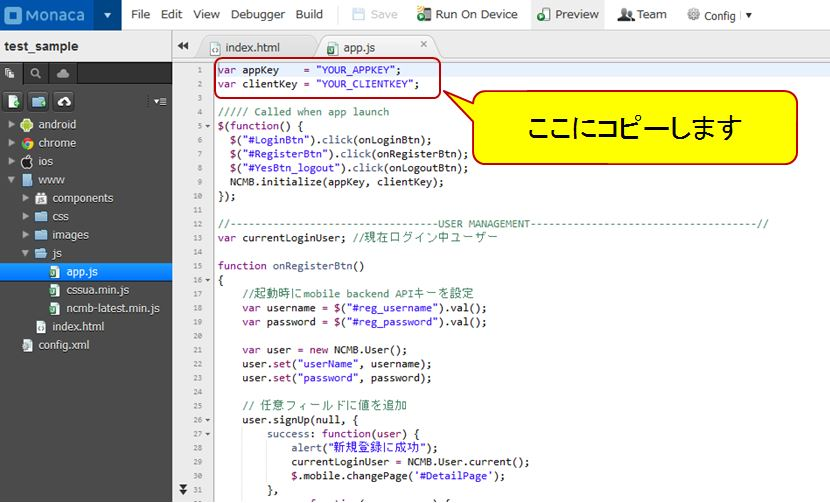
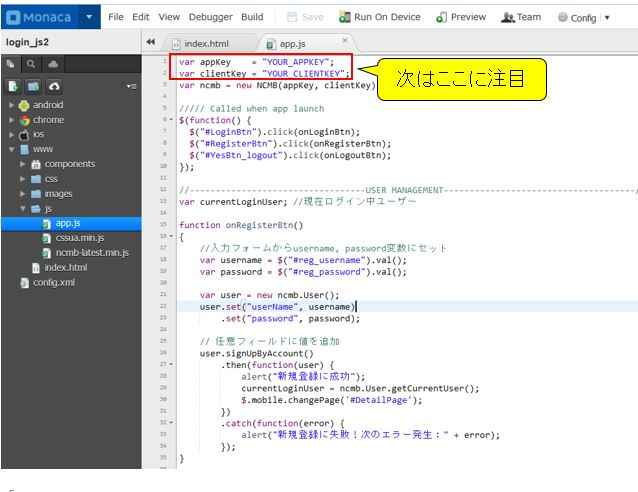
readme update

diff --git a/www/js/app.js b/www/js/app.js
@@ -14,7 +14,7 @@ var currentLoginUser; //現在ログイン中ユーザー
 
 function onRegisterBtn()
 {
-    //起動時にmobile backend APIキーを設定
+    //入力フォームからusername, password変数にセット
     var username = $("#reg_username").val();
     var password = $("#reg_password").val();
     

diff --git a/README.md b/README.md
@@ -80,18 +80,11 @@ File: www/js/app.js
 ```JavaScript
 var appKey    = "YOUR_APPKEY";
 var clientKey = "YOUR_CLIENTKEY";
-
-///// Called when app launch
-$(function() {
-  //ボタン処理実装
-  $("#LoginBtn").click(onLoginBtn);
-  $("#RegisterBtn").click(onRegisterBtn);
-  $("#YesBtn_logout").click(onLogoutBtn);  
-  NCMB.initialize(appKey, clientKey);
-});
+var ncmb = new NCMB(appKey, clientKey);
 ```
+
 上記のコードでアプリケーションキーとクライアントキーを指定し、
-NCMB.initialize(appKey, clientKey)　でmBaaSサーバと連携を行います。
+NCMB(appKey, clientKey)　でmBaaSサーバと連携を行います。
 
  - ユーザ登録
 
@@ -101,37 +94,36 @@ NCMB.Userクラスを利用して、ユーザ登録を行います。
 userに対し、set("key", "value")というメソッドを利用して、username, passwordをセットします。
 他の属性（たとえば年齢や性別など）も、同様の形でセットできます。
 
-セット後、signUp()メソッドを利用し、ユーザ登録を非同期にて行います。
-success, error それぞれの場合のコールバック処理を定義します。
-successの場合、alertを出し、currentLoginUserをセットしてから、#DetailPageに遷移させます。
+セット後、signUpByAccount()メソッドを利用し、ユーザ登録を非同期にて行います。
+メソッドチェインを行い、then(), catch() それぞれの場合の処理を定義します。
+成功の場合、alertを出し、currentLoginUserをセットしてから、#DetailPageに遷移させます。
 
 ```JavaScript
 //入力フォームからusername, password変数にセット
 var username = $("#reg_username").val();
 var password = $("#reg_password").val();
 
-var user = new NCMB.User();
-user.set("userName", username);
-user.set("password", password);
+var user = new ncmb.User();
+user.set("userName", username)
+    .set("password", password);
 
-// 任意フィールドに値を追加
-user.signUp(null, {
-    success: function(user) {
+// 任意フィールドに値を追加 
+user.signUpByAccount()
+    .then(function(user) {
         alert("新規登録に成功");
-        currentLoginUser = NCMB.User.current();
+        currentLoginUser = ncmb.User.getCurrentUser();
         $.mobile.changePage('#DetailPage');
-    },
-    error: function(user, error) {
-        alert("新規登録に失敗！次のエラー発生： " + error.message);
-    }
-});
+    })
+    .catch(function(error) {
+        alert("新規登録に失敗！次のエラー発生：" + error);
+    });
 ```
 
  - ユーザーログイン
 
-NCMB.Userクラスを利用し、ユーザログインを行います。
-NCMB.UserのlogInメソッドを利用し、username, passwordを渡し、非同期にてログインを行います。
-success, error それぞれの場合のコールバックを定義します。
+ncmb.Userクラスを利用し、ユーザログインを行います。
+ncmb.Userのloginメソッドを利用し、username, passwordを渡し、非同期にてログインを行います。
+メソッドチェインを行い、then(), catch() それぞれの場合の処理を定義します。
 ログイン成功した場合、alertを出し、currentLoginUserをセットしてから、#DetailPageに遷移します。
 
 ```JavaScript
